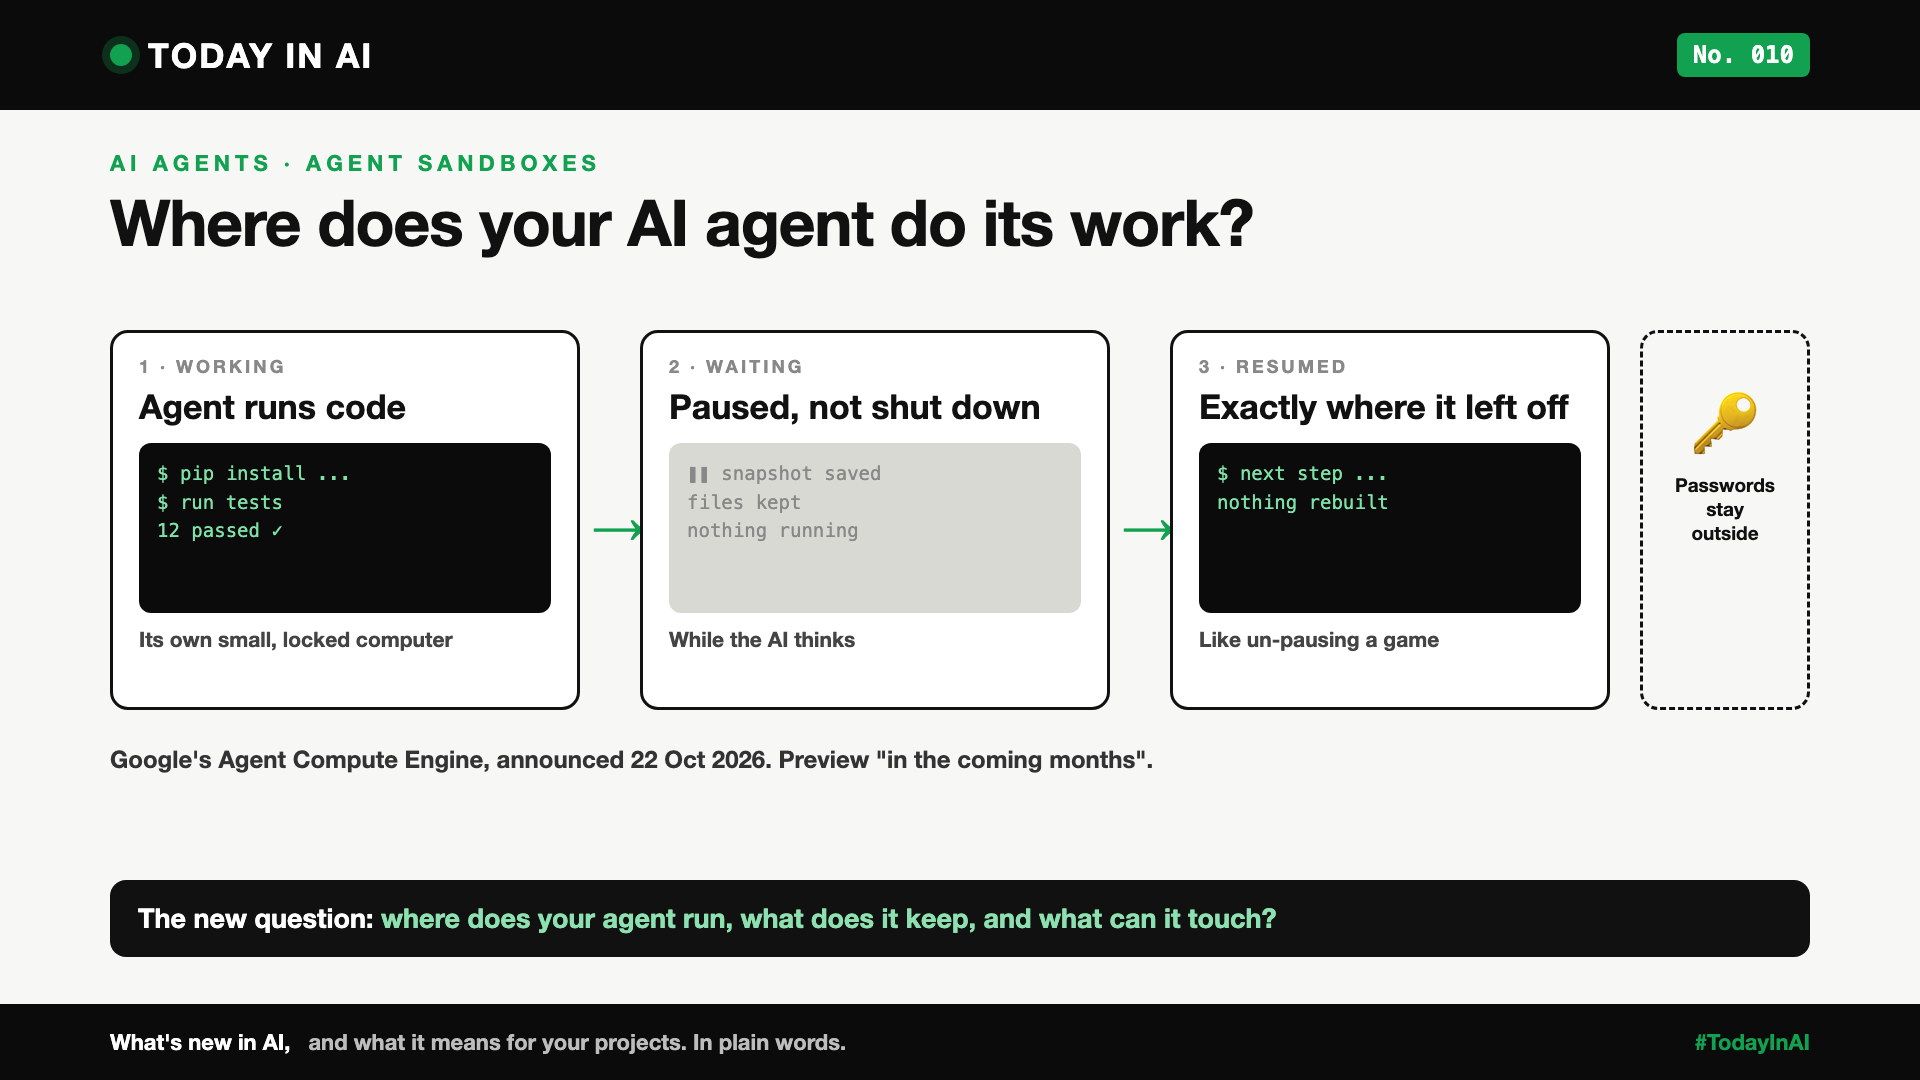
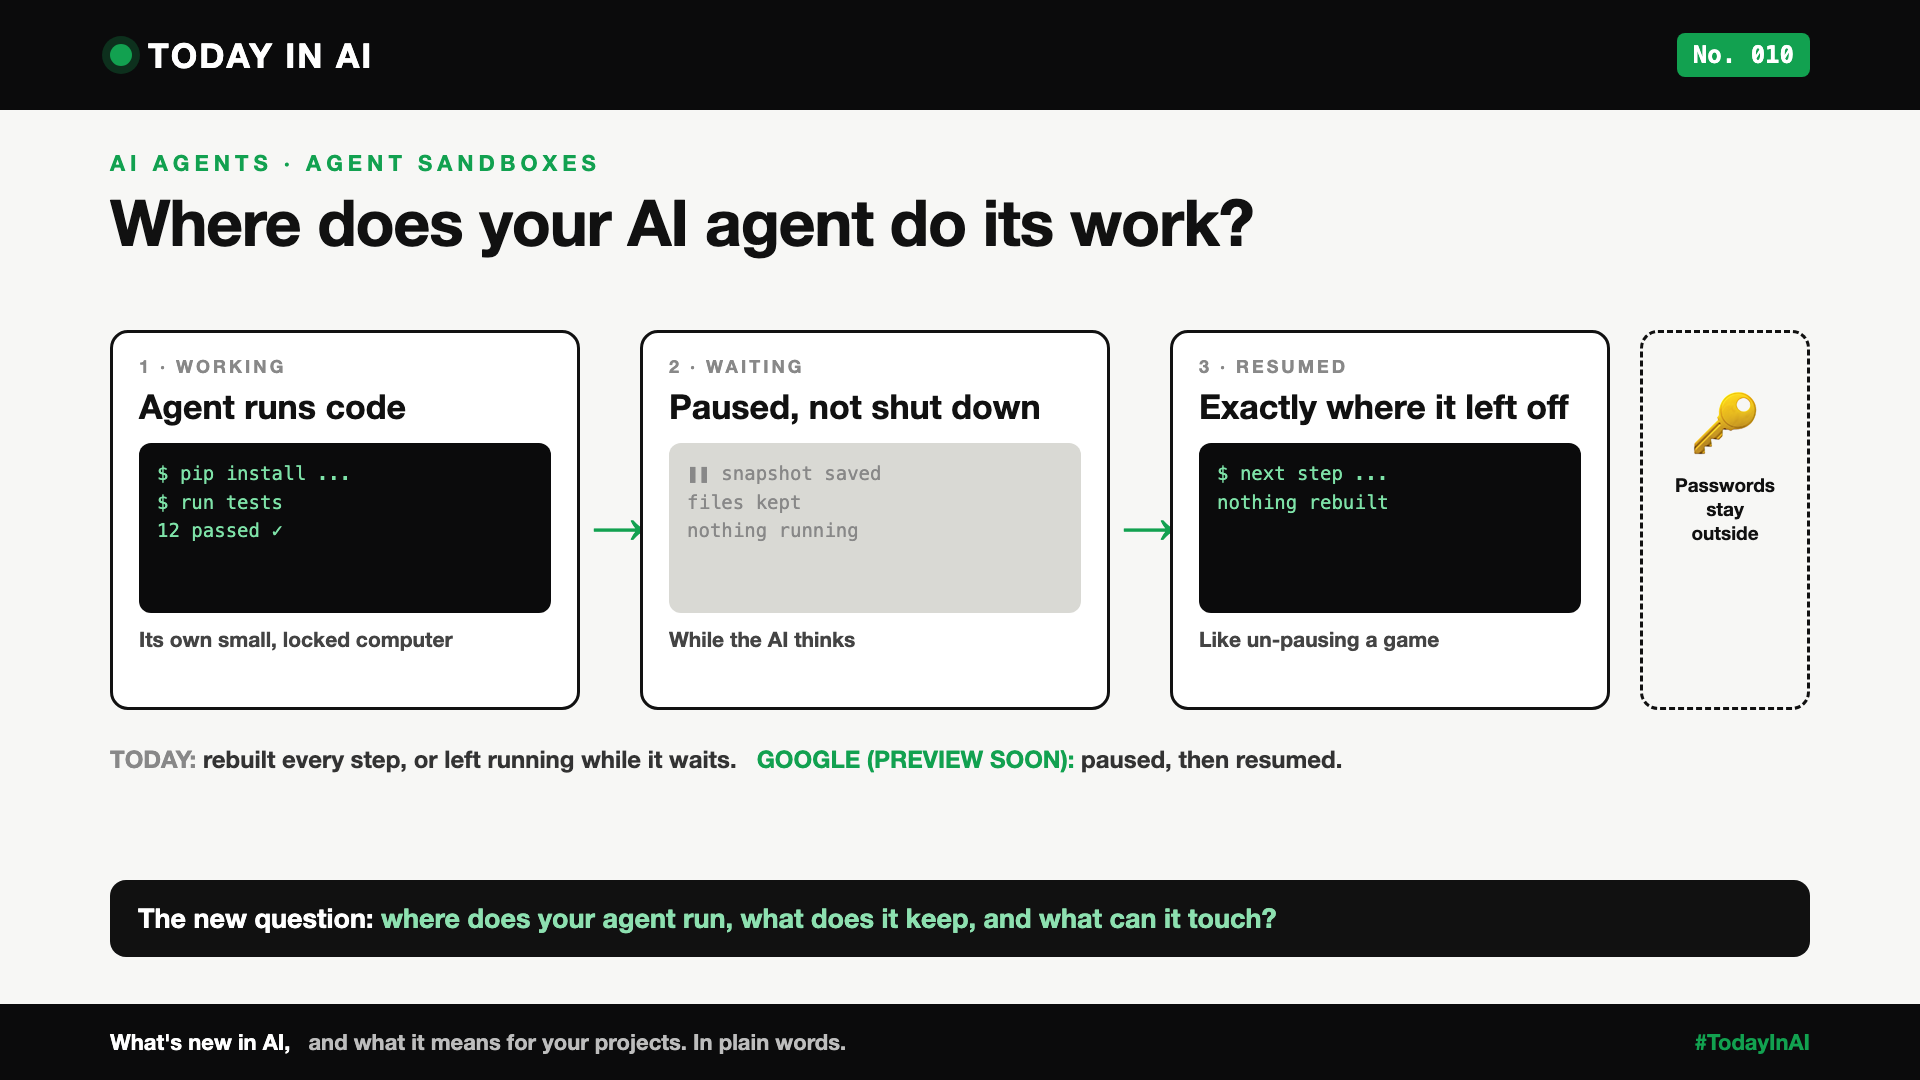
Today in AI 010: how it's done today, today vs Google, who benefits; verified Firecracker and E2B

Changed region(s): [[0.0625, 0.6722, 0.6875, 0.7333]]

diff --git a/20-today-in-ai/010-agent-sandboxes.md b/20-today-in-ai/010-agent-sandboxes.md
@@ -4,30 +4,41 @@
 
 *Today in AI: what's new in AI, and what it means for you. In plain words.*
 
-**In one line:** Google announced a way to give every AI agent its own small, locked computer that pauses while the agent waits and wakes up exactly where it left off.
+**In one line:** Google wants every AI agent to get its own small, locked computer that pauses while the agent waits.
 
 ## What happened
 
 On 22 October 2026, Google Cloud announced **Agent Compute Engine**. [1]
 
-A coding agent writes code, installs tools, runs tests, then waits for the AI to decide the next step. Today, teams either shut its computer down after every step (and rebuild it each time) or leave it running all session (and pay for idle time).
+A coding agent writes code, runs tests, then waits for the AI's next decision. Google gives it a tiny virtual computer, a **microVM**, that pauses while it waits and resumes from a snapshot. [1]
 
-Google's answer: each agent gets its own tiny virtual computer, a **microVM**. When the agent goes quiet, Google saves its exact state and pauses it. When work arrives, it resumes from that snapshot. [1]
+## How it's done today
 
-## Three ideas worth knowing
+- **On a laptop.** Simple, but next to your real files and passwords.
+- **In a throwaway container.** Cheap, but rebuilt every step, with thinner walls.
+- **In a machine left running.** Nothing rebuilt, but you pay while it waits.
+- **In tiny virtual computers.** AWS's Firecracker starts one in under 125 ms [2]. E2B already pauses and resumes agent sandboxes [3].
 
-- **Pause, don't restart.** Like pausing a video game instead of replaying the level.
-- **Share what's the same.** Many agents use the same system and libraries. One shared copy in memory; each agent gets a private copy only of what it changes. [1]
-- **Keep the keys outside.** Each agent runs walled off, with its own identity. Long-lived passwords stay outside its computer, and a gateway checks what it sends out. [1]
+## Today vs Google's approach
 
-## Why it matters to you
+- **While waiting:** today, rebuilt or left running. Google: paused, resumed from a snapshot.
+- **Walls:** today, often a shared core system. Google: each agent gets its own, hardware-isolated. [1]
+- **Memory:** today, a full copy per agent. Google: shared, copying only what changes. [1]
+- **Passwords:** today, often inside, where a tricked agent can read them. Google: kept outside. [1]
+- **Who builds it:** today, mostly you. Google: managed, with an ID per agent. [1]
 
-- **Learning AI?** An agent is more than a model. It needs somewhere to run, a memory of its work, and limits on what it can reach.
-- **Leading a team?** The question used to be "what will the AI decide?" Now add: "where does it run, what does it keep, and what can it touch?"
+So the idea isn't new. The packaging and scale are.
+
+## Who benefits
+
+- **Teams building coding and data agents:** long tasks resume in place instead of starting over.
+- **Security teams:** passwords out of reach, one ID per agent, every outbound call checked.
+- **Platform and finance teams running thousands of agents:** fewer machines sitting idle.
+- **Not everyone:** an agent that only calls a few APIs doesn't need its own computer.
 
 ## The catch
 
-It isn't available yet: Google says preview "in the coming months", and today it powers Google's own Gemini agent. [1] The post gives no numbers for this product. And not every agent needs it: one that only calls a few APIs is fine without its own computer.
+Not available yet: preview "in the coming months" [1]. No numbers for this product, and the benefits are Google's claims, not yet tested by customers.
 
 ## One thing to do this week
 
@@ -36,15 +47,16 @@ It isn't available yet: Google says preview "in the coming months", and today it
 
 ## Words to know
 
-- **Sandbox:** a walled-off space where an agent can run things without touching anything else.
-- **MicroVM:** a very small virtual computer that starts fast.
-- **Snapshot:** a saved copy of a computer's exact state, so it can resume later.
+- **Sandbox:** a walled-off space where an agent runs things safely.
+- **Snapshot:** a saved copy of a computer's exact state.
 
 ## References and credits
 
 1. Nirav Mehta, Michael Bachman and Kevin Hutchins, Google Cloud, "Introducing Agent Compute Engine and expanded agent governance", Google Cloud Blog, 22 October 2026. [Read it](https://cloud.google.com/blog/topics/ai-infrastructure/introducing-agent-compute-engine-and-expanded-agent-governance) (primary source)
+2. Firecracker project, "Secure and fast microVMs for serverless computing" (boots in under 125 ms; powers AWS Lambda). [Read it](https://firecracker-microvm.github.io/) (primary source)
+3. E2B, "Sandbox persistence" documentation (pause and resume with memory and files kept). [Read it](https://e2b.dev/docs/sandbox/persistence) (primary source)
 
-Credit to the Google Cloud team for a clear write-up of the design. This is a vendor announcement: the claims come from Google and haven't been independently tested. Facts come from the source; the opinions and "what it means" sections are mine. Cover: original illustration, no third-party logos or images.
+Credit to the Google Cloud team for a clear write-up of the design, and to the Firecracker and E2B teams for their public documentation. This is a vendor announcement: the claims come from Google and haven't been independently tested. Facts come from the source; the opinions and "what it means" sections are mine. Cover: original illustration, no third-party logos or images.
 
 **Not sponsored.** This write-up is not sponsored by anyone. Nobody paid for it or reviewed it before publishing.
 
@@ -71,15 +83,15 @@ Credit to the Google Cloud team for a clear write-up of the design. This is a ve
 ```
 Where does your AI agent do its work?
 
-A coding agent writes code, runs tests, then waits. Its computer sits idle, or gets rebuilt every step.
+Today: on a laptop, in a container rebuilt every step, or a machine left running while the agent waits.
 
-Google's new Agent Compute Engine gives each agent its own small, locked computer. It pauses while the agent waits, and wakes up exactly where it left off.
+Google's new Agent Compute Engine gives each agent its own small, locked computer that pauses while it waits, with passwords kept outside.
 
 Like pausing a game instead of replaying the level.
 
 Not available yet: preview "in the coming months".
 
-No. 010 of Today in AI. Source in the article. Not sponsored.
+No. 010 of Today in AI. Sources in the article. Not sponsored.
 
 #AI #AIAgents #CloudComputing #AISecurity #TodayInAI
 ```
